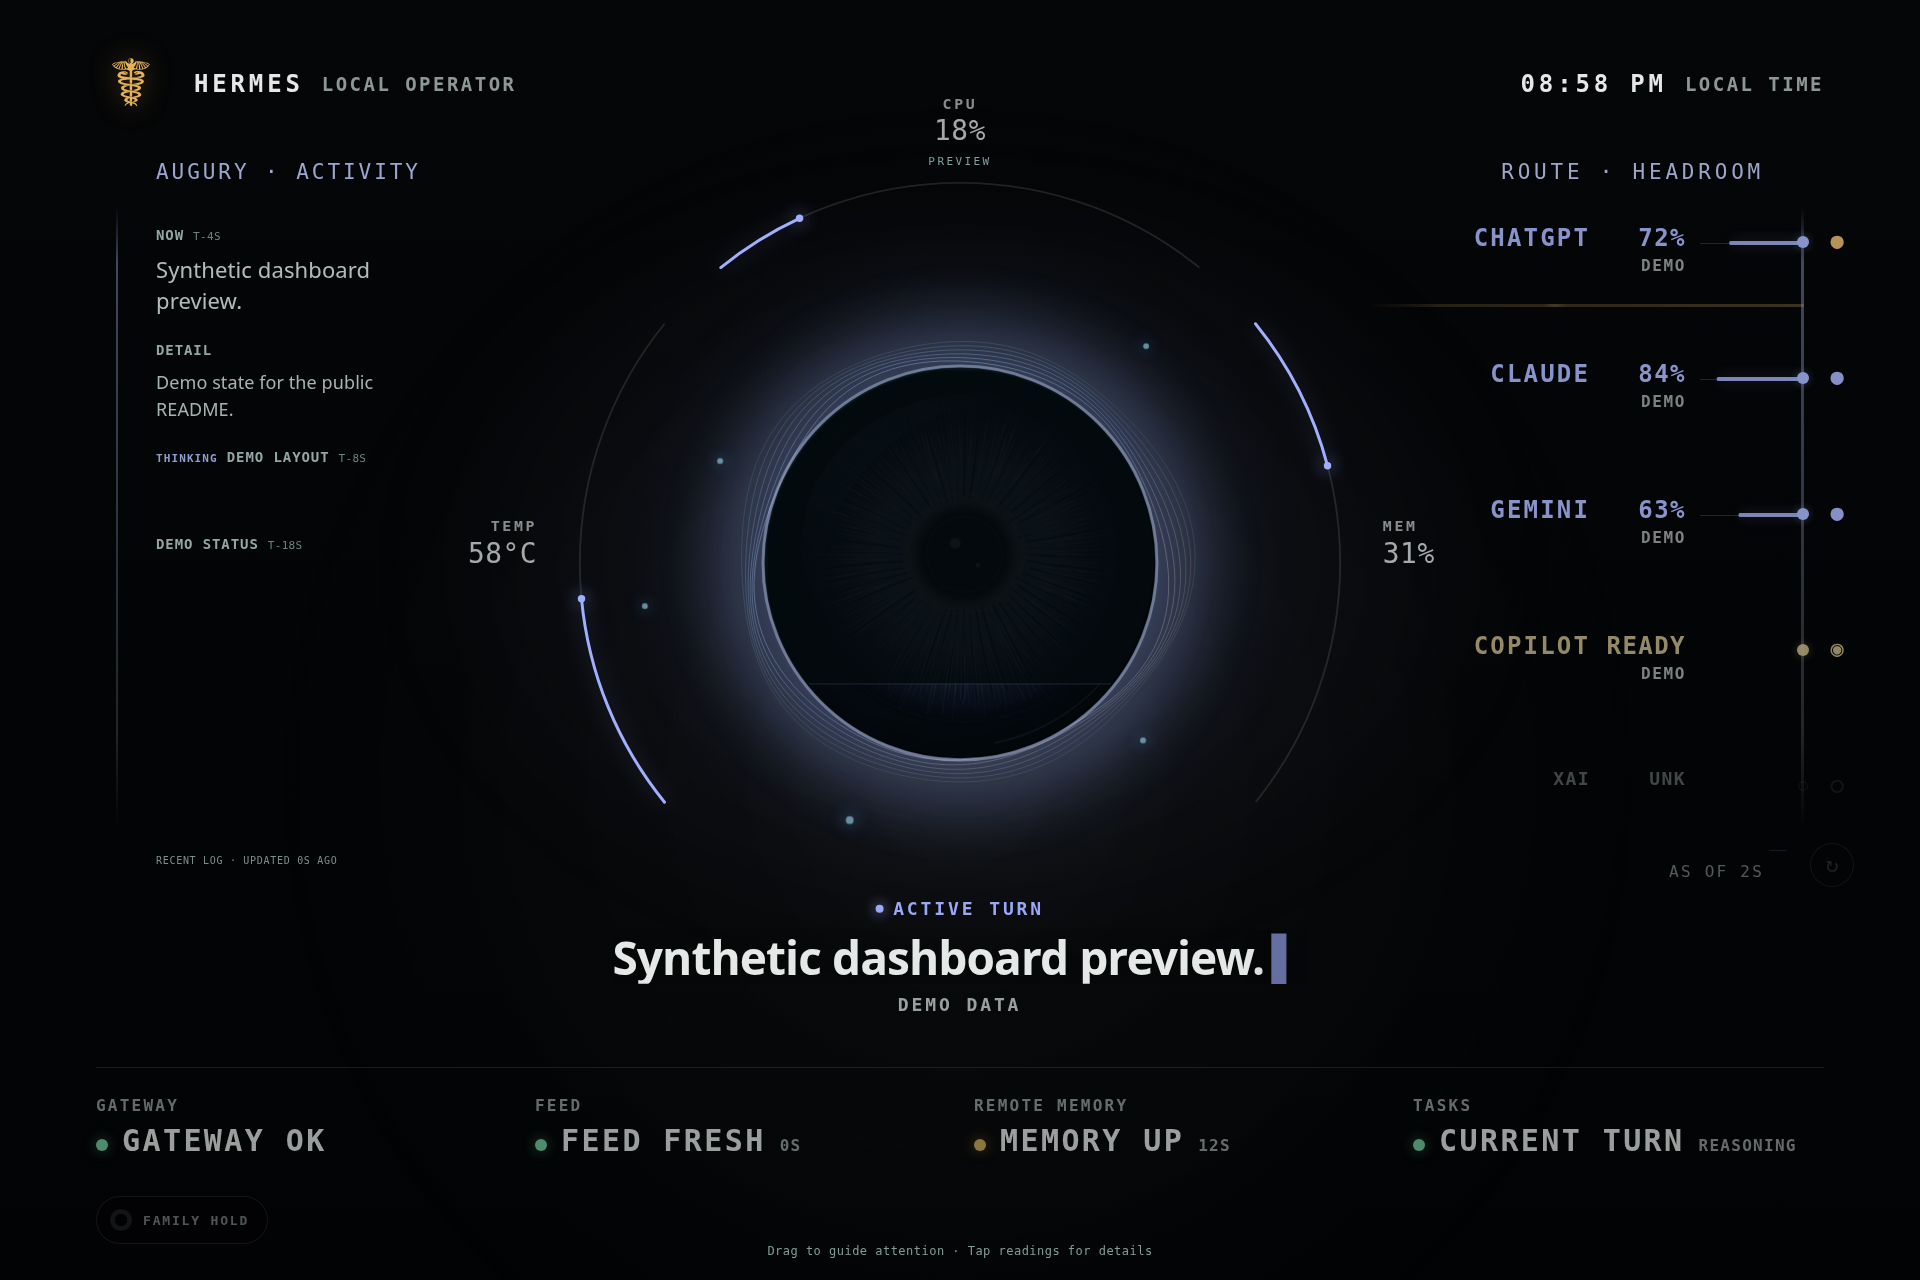
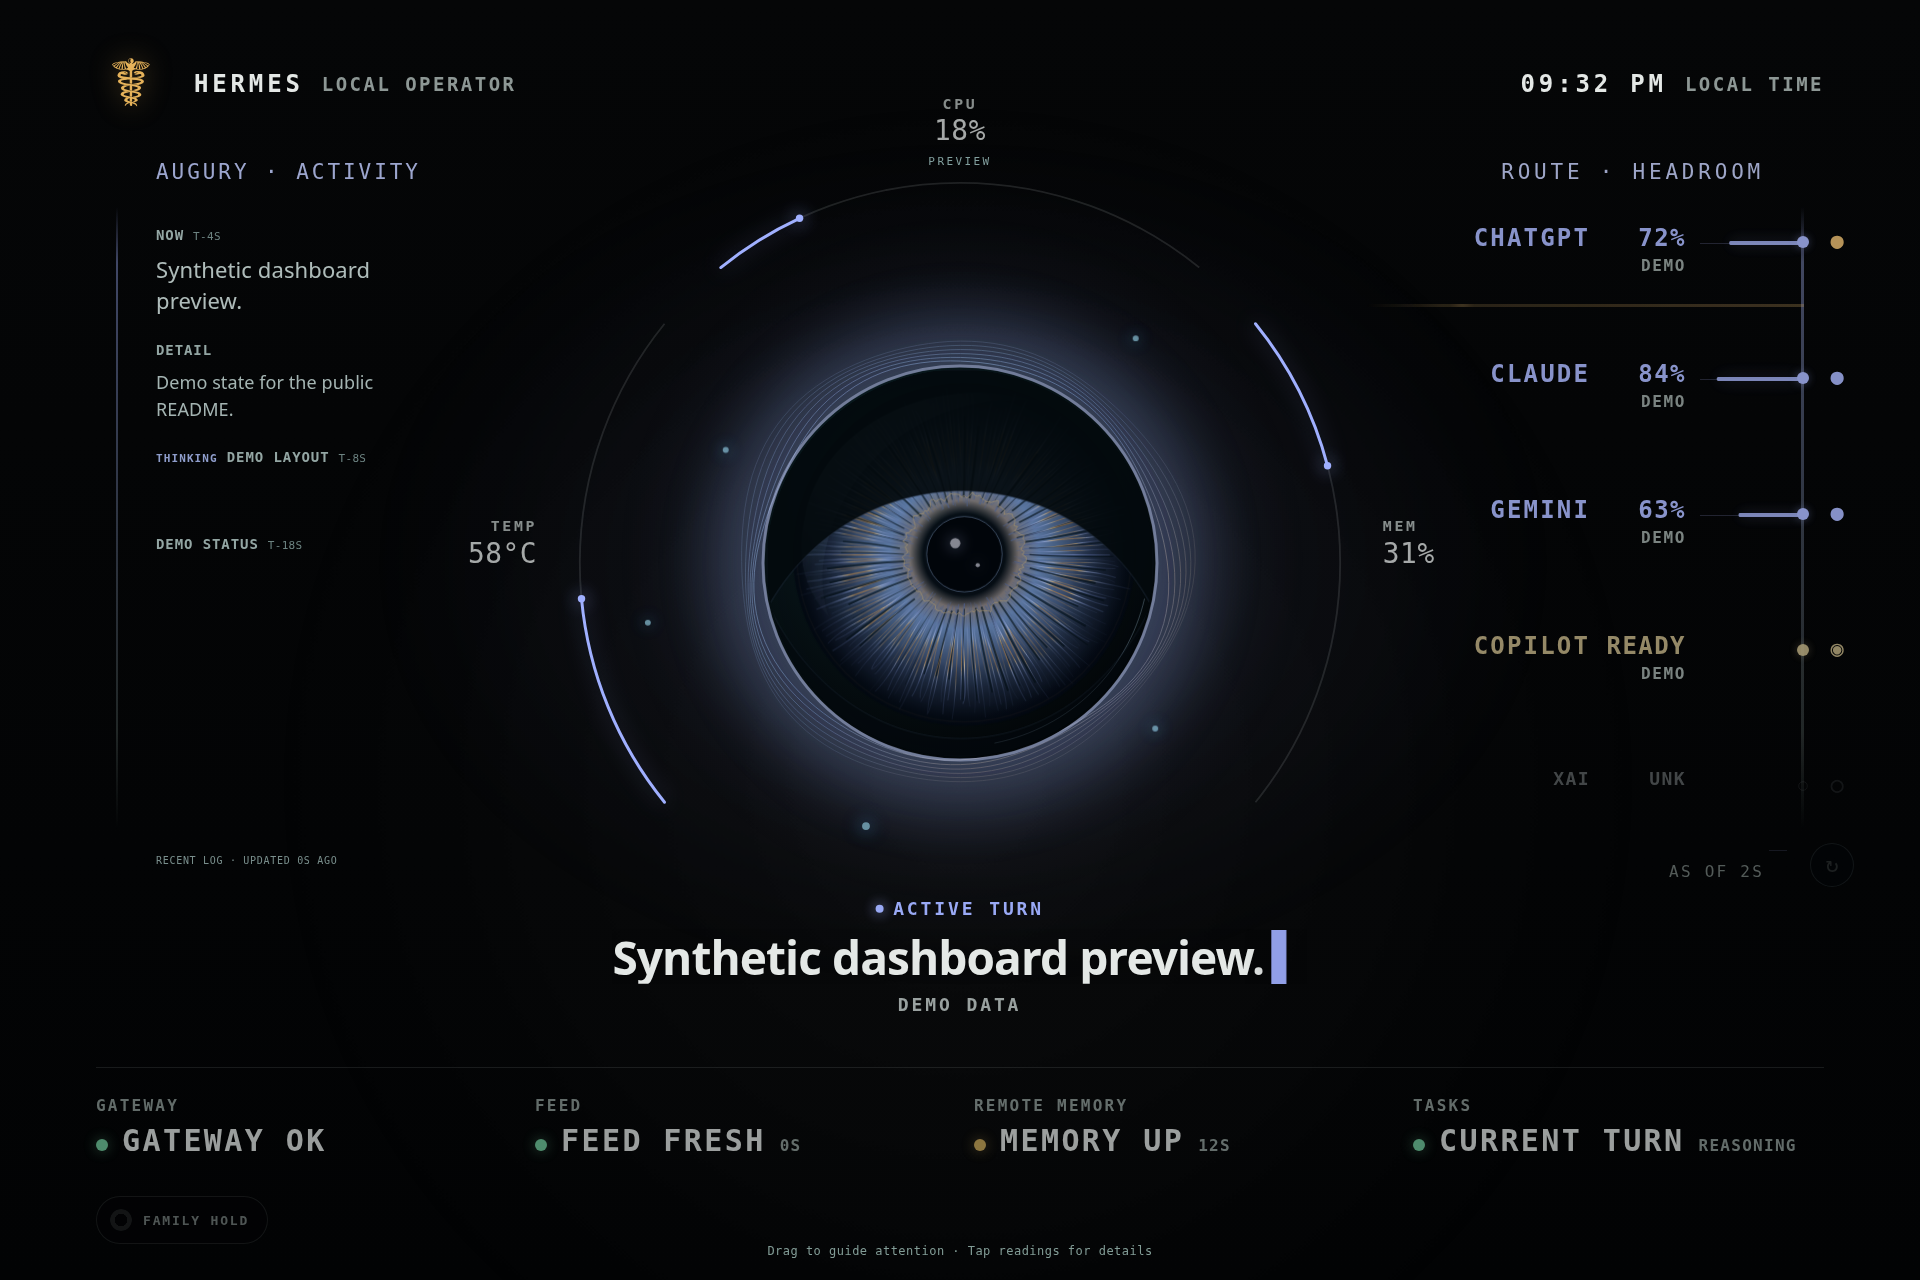
fix: capture README with open eye

Changed region(s): [[0.4062, 0.375, 0.5938, 0.5625], [0.6562, 0.7188, 0.6875, 0.7812]]

diff --git a/tests/capture-public-dashboard.test.js b/tests/capture-public-dashboard.test.js
@@ -1,0 +1,114 @@
+import { afterEach, describe, expect, it, vi } from 'vitest';
+import { createRequire } from 'node:module';
+
+const require = createRequire(import.meta.url);
+const { freezeOpenEye } = require('../scripts/capture-public-dashboard.cjs');
+
+function pageFor(rig) {
+  return {
+    evaluate: (callback, options) => {
+      globalThis.window = { __HERMES_CONCEPT_B_EYE_MOTION: rig };
+      return callback(options);
+    },
+  };
+}
+
+function installFrameQueue({ runFrames = true } = {}) {
+  const frames = new Map();
+  let nextId = 1;
+  const cancelFrame = vi.fn((id) => frames.delete(id));
+  vi.stubGlobal('requestAnimationFrame', (callback) => {
+    const id = nextId++;
+    frames.set(id, callback);
+    if (runFrames) {
+      setTimeout(() => {
+        if (frames.delete(id)) callback(performance.now());
+      }, 1);
+    }
+    return id;
+  });
+  vi.stubGlobal('cancelAnimationFrame', cancelFrame);
+  return { cancelFrame, frames };
+}
+
+afterEach(() => {
+  vi.useRealTimers();
+  vi.unstubAllGlobals();
+  delete globalThis.window;
+});
+
+describe('public dashboard open-eye capture gate', () => {
+  it('freezes only after two consecutive open-eye frames', async () => {
+    vi.useFakeTimers();
+    const { cancelFrame } = installFrameQueue();
+    const blinkValues = [0.6, 0.01, 0.01];
+    const rig = {
+      debug: vi.fn(() => ({ blink: blinkValues.shift() ?? 0.01 })),
+      teardown: vi.fn(),
+    };
+
+    const pending = freezeOpenEye(pageFor(rig), { timeoutMs: 50 });
+    await vi.advanceTimersByTimeAsync(5);
+
+    await expect(pending).resolves.toBeLessThanOrEqual(0.02);
+    expect(rig.debug).toHaveBeenCalledTimes(3);
+    expect(rig.teardown).toHaveBeenCalledOnce();
+    expect(cancelFrame).not.toHaveBeenCalled();
+    expect(vi.getTimerCount()).toBe(0);
+  });
+
+  it('rejects on an independent timeout when animation frames stop', async () => {
+    vi.useFakeTimers();
+    const { cancelFrame } = installFrameQueue({ runFrames: false });
+    const rig = { debug: vi.fn(), teardown: vi.fn() };
+    let outcome = 'pending';
+
+    freezeOpenEye(pageFor(rig), { timeoutMs: 25 }).then(
+      () => { outcome = 'resolved'; },
+      (error) => { outcome = error.message; },
+    );
+    await vi.advanceTimersByTimeAsync(25);
+
+    expect(outcome).toBe('eye did not reach a stable open frame before capture');
+    expect(cancelFrame).toHaveBeenCalledOnce();
+    expect(rig.debug).not.toHaveBeenCalled();
+    expect(rig.teardown).not.toHaveBeenCalled();
+    expect(vi.getTimerCount()).toBe(0);
+  });
+
+  it('rejects and cleans up when reading blink state throws', async () => {
+    vi.useFakeTimers();
+    const { cancelFrame } = installFrameQueue();
+    const rig = {
+      debug: vi.fn(() => { throw new Error('debug failed'); }),
+      teardown: vi.fn(),
+    };
+    const pending = freezeOpenEye(pageFor(rig), { timeoutMs: 50 });
+    const rejection = expect(pending).rejects.toThrow('debug failed');
+
+    await vi.advanceTimersByTimeAsync(1);
+
+    await rejection;
+    expect(cancelFrame).not.toHaveBeenCalled();
+    expect(rig.teardown).not.toHaveBeenCalled();
+    expect(vi.getTimerCount()).toBe(0);
+  });
+
+  it('rejects and cleans up when renderer teardown throws', async () => {
+    vi.useFakeTimers();
+    const { cancelFrame } = installFrameQueue();
+    const rig = {
+      debug: vi.fn(() => ({ blink: 0 })),
+      teardown: vi.fn(() => { throw new Error('teardown failed'); }),
+    };
+    const pending = freezeOpenEye(pageFor(rig), { timeoutMs: 50 });
+    const rejection = expect(pending).rejects.toThrow('teardown failed');
+
+    await vi.advanceTimersByTimeAsync(2);
+
+    await rejection;
+    expect(rig.teardown).toHaveBeenCalledOnce();
+    expect(cancelFrame).not.toHaveBeenCalled();
+    expect(vi.getTimerCount()).toBe(0);
+  });
+});

diff --git a/scripts/check-kiosk-recommendation-regressions.js b/scripts/check-kiosk-recommendation-regressions.js
@@ -746,7 +746,16 @@ requireAll(capturePublicSource, [
   'assertPublicText(visibleText)',
   "await page.route('**/api/hermes-state**'",
   "await page.route('**/api/augury-feed**'",
-], 'Public screenshot generation must use bounded synthetic state and reject private text shapes.');
+  'async function freezeOpenEye(page, { timeoutMs = 5000, maxBlink = 0.02 } = {})',
+  'const blink = Number(rig?.debug?.().blink)',
+  'blink <= pageMaxBlink',
+  'const timeoutId = setTimeout',
+  'cancelAnimationFrame(frameId)',
+  'catch (error)',
+  'rig.teardown()',
+  'await freezeOpenEye(page)',
+  'module.exports = { freezeOpenEye }',
+], 'Public screenshot generation must use bounded synthetic state, reject private text shapes, and freeze an explicitly open eye before capture.');
 if (/const DISPLAY_BUILD_ID = ['"][^'"]+['"]/.test(captureModesSource) || captureModesSource.includes("src', 'mascot', 'app.js'")) {
   fail('Mode artifact capture must not scrape the removed literal DISPLAY_BUILD_ID from src/mascot/app.js.');
 }
